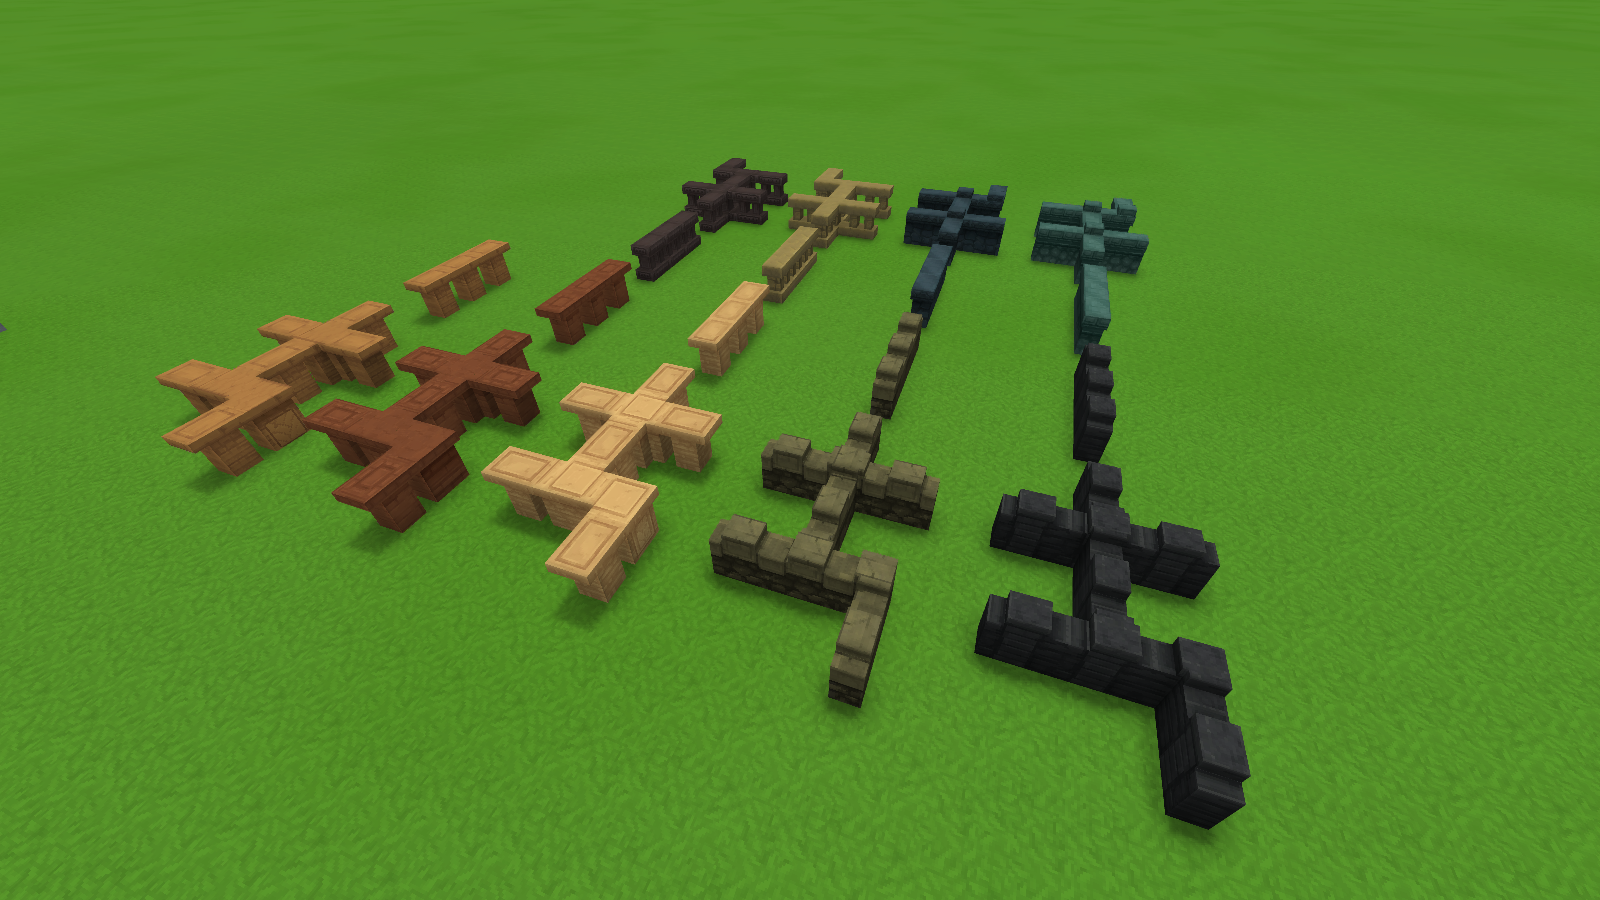
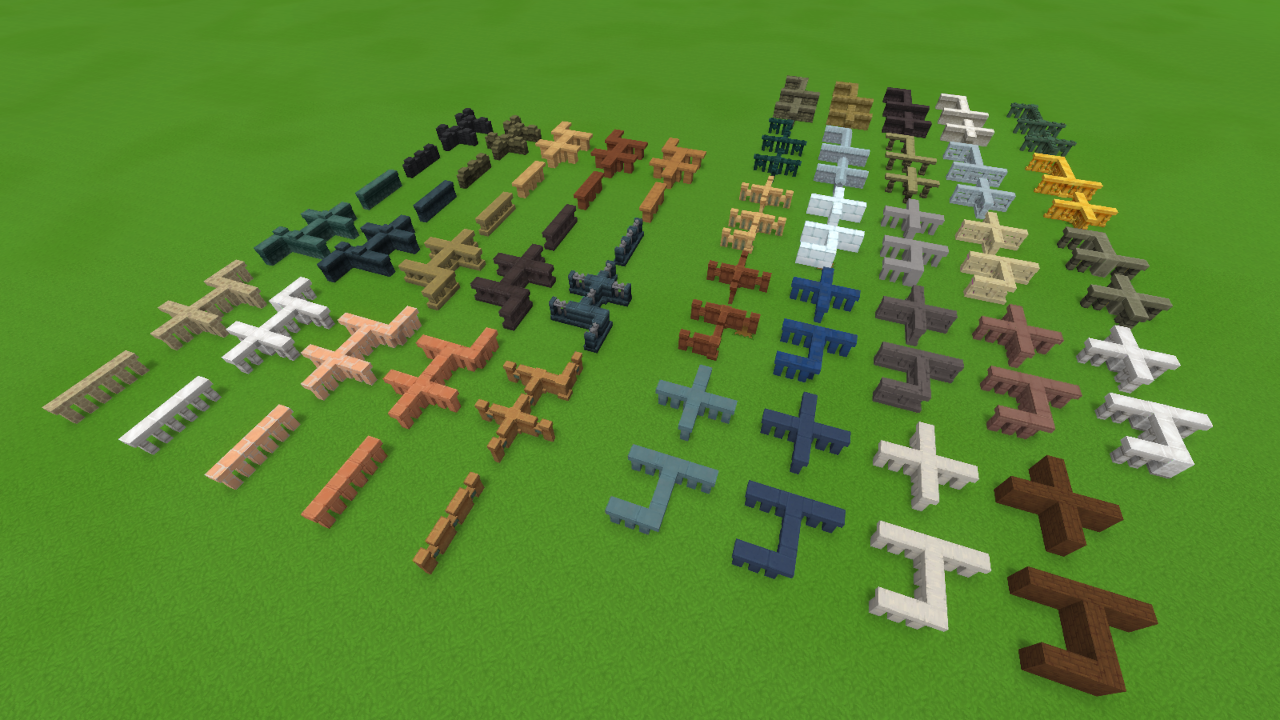
update README.md

Changed region(s): [[0.0312, 0.0917, 0.9688, 0.9778]]

diff --git a/README.md b/README.md
@@ -2,26 +2,11 @@
 
 Introduces new wall connection shapes including T-Junctions and Cross-Junctions. The mod operates independently from vanilla assets and does not override or extend existing blocks, ensuring full compatibility.
 
-⚠ Currently supports:
-
-- Rock-Cobble walls (stone, marble, quarzite and volcanic from v0.2.0)
-- Sandstone-Cobble walls (default, red, white from v0.3.0)
-- Basalt-, Slate-Cobble walls (from v0.4.0)
-- Aqua-, Shale-Cobble walls (from v0.5.0)
-- Hitboxes for T_Junction and Cross_Junction (default and thick, from v0.5.0)
-- Calcite-Cobble wall (from v0.6.0)
-- Basalt-Brick wall (from v0.6.0)
-- Calcite-Brick wall (from v0.6.0)
-- Gold-Brick wall (from v0.6.0)
-- Volcanic-, Quarzite-Brick walls (from v0.6.0)
-
-only. Additional wall variants will be added after further testing.
+⚠ From version `1.0.0` we have support for all walls i could find.
 
 ⚠ It is strongly recommended to additionally use the mod [ExtraTooltips](https://www.curseforge.com/hytale/mods/extratooltips). Without it, it can be difficult to distinguish between different wall blocks in the inventory or crafting menu.
 
 ![Better Walls - Rock Cobble - Showcase of T_Junction and Cross_Junction - 01](./Assets/screen0.png)
-
-![Better Walls - Rock Cobble - Showcase of T_Junction and Cross_Junction - 01](./Assets/screen1.png)
 
 They:
 
